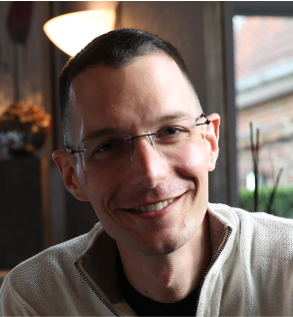
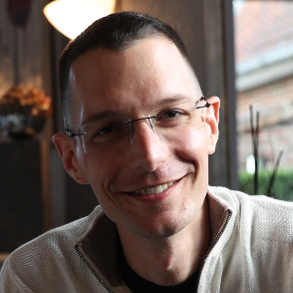
Add other teams member, rework design with flexbox

diff --git a/_2021_pages/team.html b/_2021_pages/team.html
@@ -12,21 +12,24 @@ title: Team Member
         <h3 class="section-subheading text-muted"></h3>
       </div>
     </div>
-    <div class="row">
+    <div class="row-flex">
       {% for member in site.data.twenty_21.team %}
-      <div class="col-md-3 col-sm-6 center-block text-center">
-        <div class="row member justify-content-center">
-          <img class="member-photo" src="../css/2021_style/img/team/{{ member.img }}">
+      <div class="member col-md-4 col-sm-6 center-block text-center">
+        <div class="row justify-content-center">
+          <img class="member-photo" src="../css/2021_style/img/team/{{ member.img }}" alt="{{ member.name }}">
           <!-- https://s.gravatar.com/avatar/0000000000000000?s=160 for Gravatar-->
         </div>
         <div class="row">
           <h3>{{ member.name }}</h3>
         </div>
         <div class="row">
-          <span>{{ member.position }}</span>
+          <img class="company img-responsive center-block" src="../css/2021_style/img/logos/{{ member.company_logo }}" alt="{{ member.company_logo }}"/>
         </div>
         <div class="row">
-          <p>{{ member.message }}</p>
+          <h4>{{ member.position }}</h4>
+        </div>
+        <div class="row message">
+          {{ member.message }}
         </div>
         <div class="row">
           <ul class="social-network social-circle">

diff --git a/_sass/2021_sass/_team.scss b/_sass/2021_sass/_team.scss
@@ -1,7 +1,15 @@
 
 .team .member h3 {
-  color: SlateGray ;
+  color: #1D3A85 ;
   margin: 5px 0px 0px 0px;
+}
+.team .member h4 {
+  color: #7B64CE ;
+}
+.team .member .message {
+    margin-bottom:1em;
+    font-style: italic;
+
 }
 
 .email {
@@ -13,7 +21,7 @@
   border-radius: 50%;
   text-align: center;
   margin: auto;
-  max-width: 80%;
+  width: 60%;
   height: auto;
   transition: 0.1s transform ease-in-out;
 }
@@ -22,4 +30,18 @@
   transform: scale(0.9);
   cursor: pointer;
 }
+img.company {
+  width: 60%;
+}
 
+/*======== NOW LETS ADD FLEXBOX ========*/
+.row-flex {
+  display: flex;
+  flex-wrap: wrap;
+}
+.row-flex > [class*='col-'] {
+  display: flex;
+  flex-direction: column;
+  margin-bottom:3em;
+  padding: 1em;
+}
